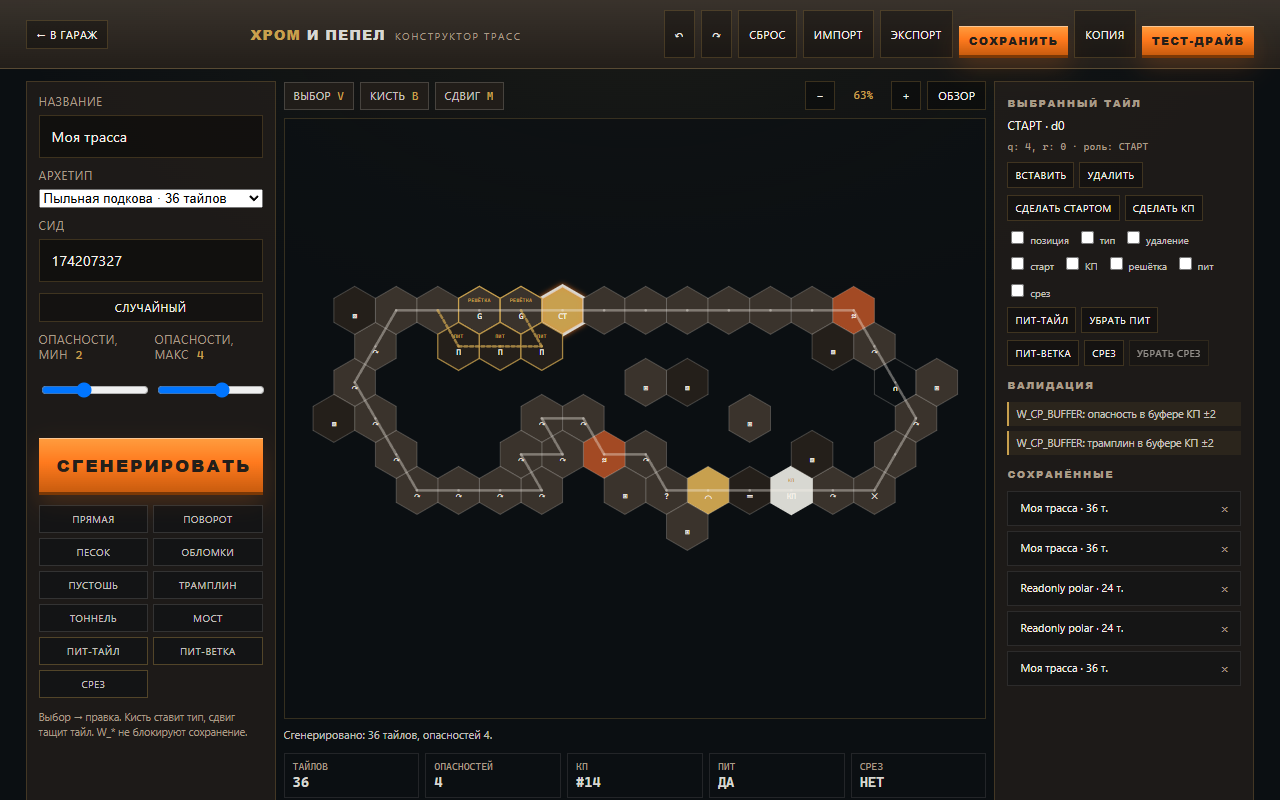
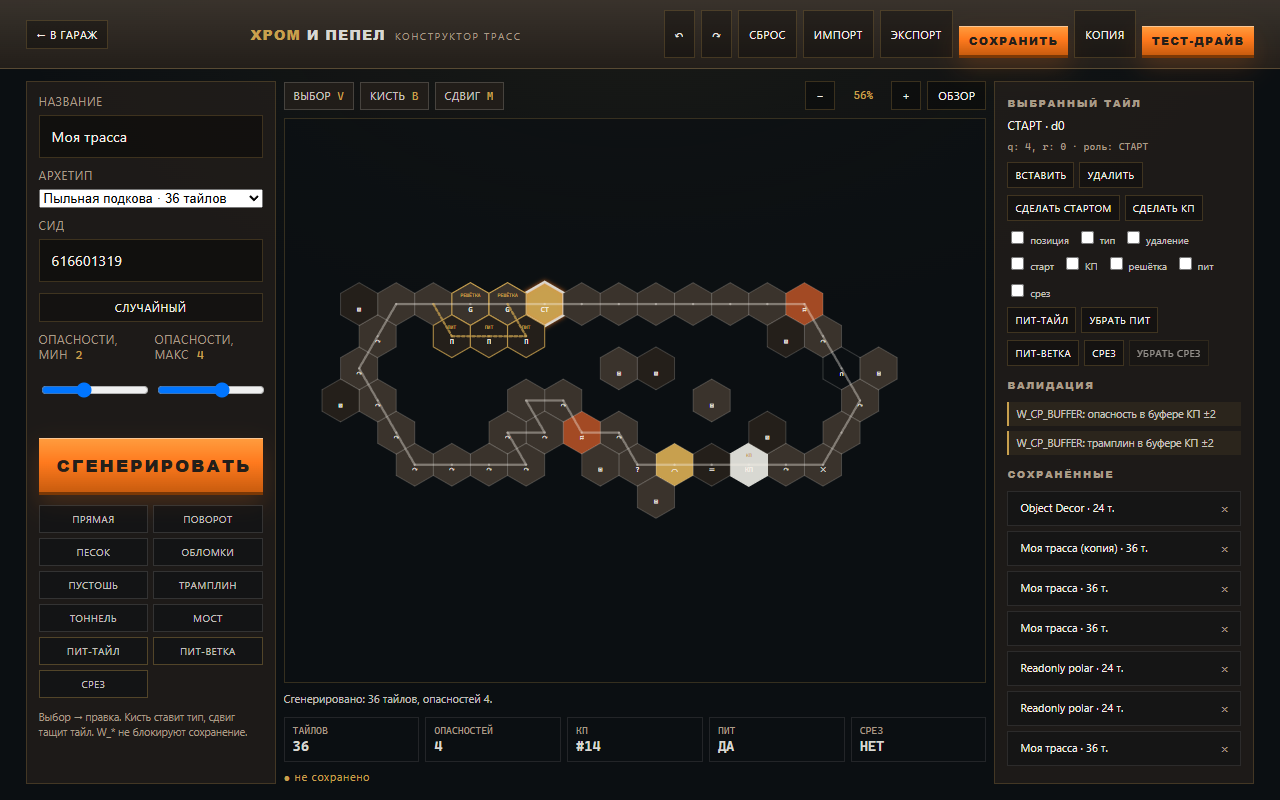
editor: fit 1024x768 viewport and refresh editor screenshots

diff --git a/chrome-and-ash-web/style.css b/chrome-and-ash-web/style.css
@@ -719,11 +719,12 @@ code { font-family: var(--font-mono); color: var(--brass); }
    КОНСТРУКТОР ТРАСС
    ================================================================ */
 .constructor-screen {
-  height: 100vh; height: 100dvh; overflow: hidden; display: flex; flex-direction: column;
+  height: 100vh; height: 100dvh; min-height: 0; overflow: hidden; flex-direction: column;
   background:
     radial-gradient(900px 500px at 50% 0%, rgba(200,160,78,.08), transparent 70%),
     var(--night);
 }
+.constructor-screen.active { display: flex; }
 .constructor-top {
   display: flex; align-items: center; justify-content: space-between; gap: 8px 12px; flex-wrap: wrap;
   padding: 10px clamp(14px, 2vw, 28px); border-bottom: 1px solid var(--line);
@@ -880,7 +881,7 @@ code { font-family: var(--font-mono); color: var(--brass); }
   .constructor-actions .chip-btn, .constructor-actions .big-btn.mini { padding: 5px 7px; font-size: 10px; }
 }
 @media (max-width: 900px) {
-  .constructor-screen { height: auto; min-height: 100vh; overflow: visible; display: block; }
+  .constructor-screen, .constructor-screen.active { height: auto; min-height: 100vh; overflow: visible; display: block; }
   .constructor-main { grid-template-columns: 1fr; overflow: visible; flex: none; }
   .constructor-controls, .constructor-side { overflow: visible; }
   .constructor-preview { min-height: 46vh; flex: none; }
